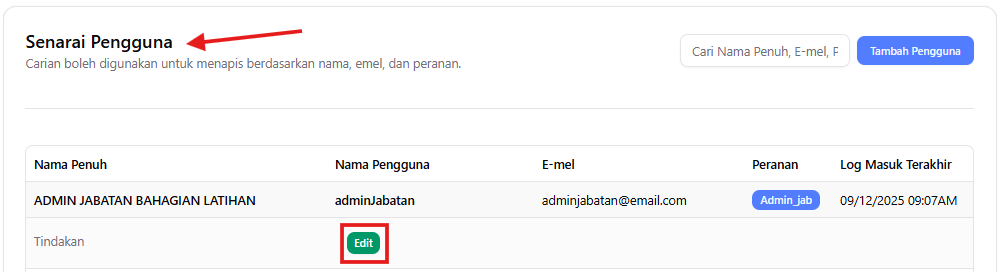
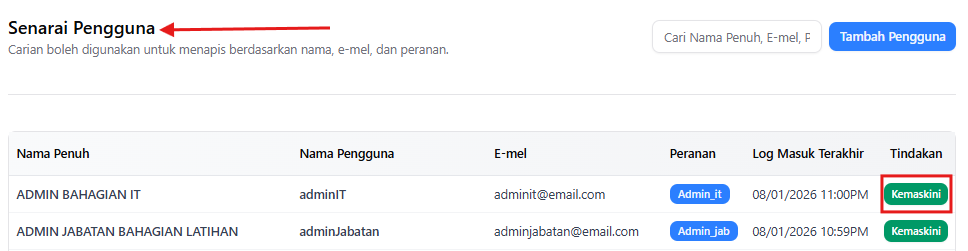
d

diff --git a/docs/adminit/pengurusan-pengguna/kemaskini-pengguna.md b/docs/adminit/pengurusan-pengguna/kemaskini-pengguna.md
@@ -24,8 +24,11 @@ Membantu admin mengemaskini maklumat pengguna dalam sistem. Hanya pengguna yang 
 3) Kemudian klik butang **Kemaskini**.
 
 ![Edit](/image/admin/kemaskini.png)
+
 4) Sistem akan membuka borang maklumat pengguna untuk dikemaskini
+
 ![Borang Edit](/image/admin/borang-edit.png)
+:::
 
 ::: warning Nota
 - Hanya maklumat pengguna Admin IT dan Admin Jabatan dibenarkan untuk dikemaskini.
